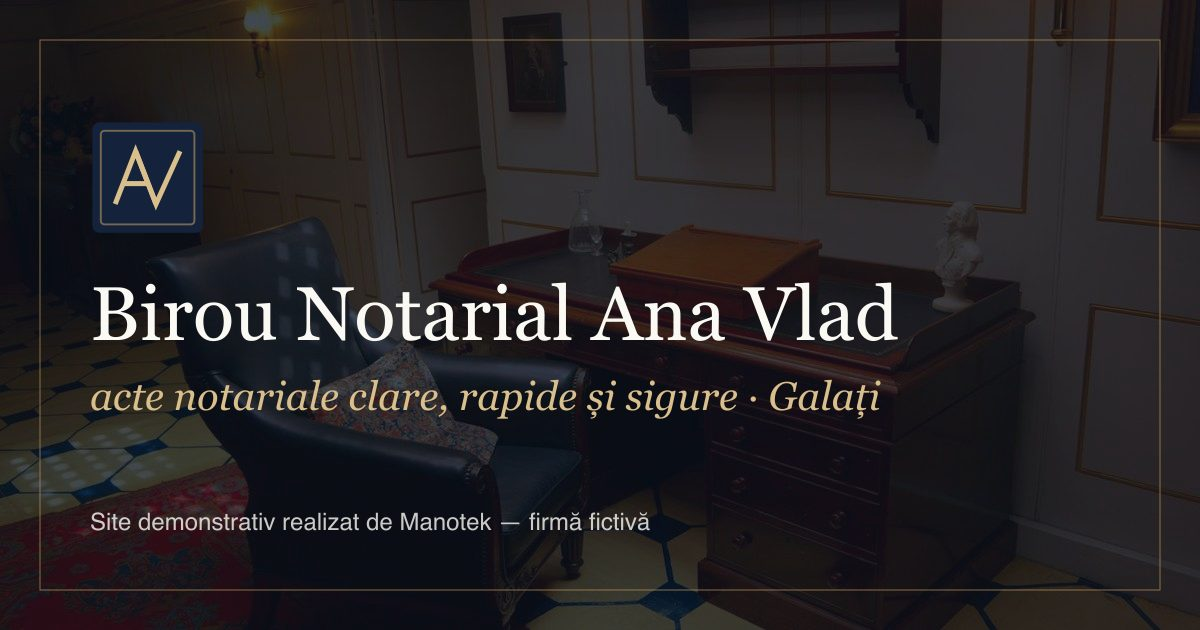
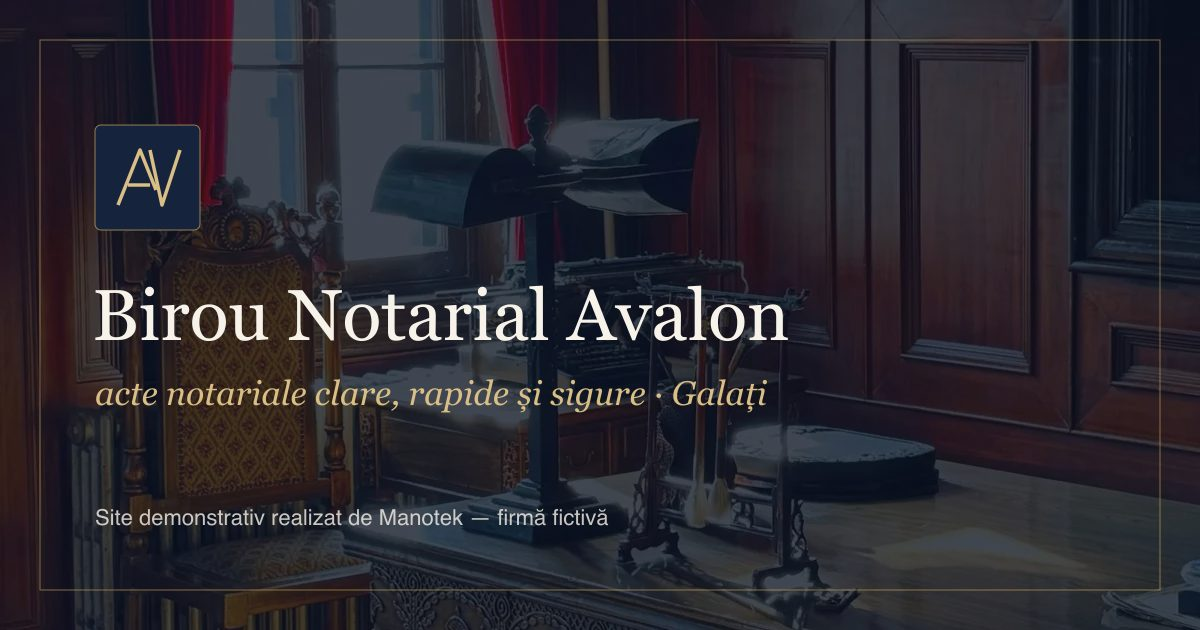
Nume de birou fictiv (Avalon) în loc de nume de persoană; imagine OG actualizată

diff --git a/content/site.ts b/content/site.ts
@@ -6,9 +6,9 @@
 export const EXEMPLU = "[exemplu]";
 
 export const site = {
-  nume: "Birou Notarial Ana Vlad",
-  numeScurt: "Notariat Ana Vlad",
-  notar: "Ana Vlad",
+  nume: "Birou Notarial Avalon",
+  numeScurt: "Notariat Avalon",
+  notar: "Notar public [exemplu]",
   oras: "Galați",
   slogan: "acte notariale clare, rapide și sigure",
   descriere:
@@ -61,7 +61,7 @@ export const nav = [
 
 export const hero = {
   supratitlu: "Birou notarial · Galați",
-  titlu: "Birou Notarial Ana Vlad",
+  titlu: "Birou Notarial Avalon",
   subtitlu: "Acte notariale clare, rapide și sigure.",
   text: "Vă explicăm fiecare pas pe înțelesul tuturor și vă trimitem din timp lista de acte. Ajungeți la birou pregătiți, semnați fără drumuri în plus.",
   repere: ["Listă de acte înainte de programare", "Explicații clare, fără termeni inutili", "Programare la ora stabilită"],
@@ -349,7 +349,7 @@ export const pasi = [
 
 export const despre = {
   titlu: "Despre notar",
-  nume: "Notar public Ana Vlad",
+  nume: "Notarul biroului [exemplu]",
   paragrafe: [
     "[exemplu] Notar public cu experiență în acte imobiliare, succesiuni și dreptul familiei. Lucrez cu atenție la detalii și cu explicații pe înțelesul fiecărui client.",
     "[exemplu] Cred că un act notarial bun începe cu o discuție clară: ce doriți să faceți, ce riscuri există și ce documente sunt necesare. Abia apoi trecem la redactare.",

diff --git a/components/Header.tsx b/components/Header.tsx
@@ -20,7 +20,7 @@ export function Logo({ onDark = false }: { onDark?: boolean }) {
     <span className="flex items-center gap-3">
       <Monogram className="mark h-10 w-10 shrink-0" />
       <span className="flex flex-col leading-none">
-        <span className={`font-serif text-[1.35rem] font-semibold tracking-tight ${onDark ? "text-hartie" : "text-navy"}`}>Ana Vlad</span>
+        <span className={`font-serif text-[1.35rem] font-semibold tracking-tight ${onDark ? "text-hartie" : "text-navy"}`}>Avalon</span>
         <span className={`mt-1 text-[10px] font-semibold tracking-[0.24em] uppercase ${onDark ? "text-aur-deschis" : "text-aur-text"}`}>Birou notarial</span>
       </span>
     </span>

diff --git a/app/servicii/[slug]/page.tsx b/app/servicii/[slug]/page.tsx
@@ -18,7 +18,7 @@ export async function generateMetadata({ params }: Props): Promise<Metadata> {
   const { slug } = await params;
   const s = servicii.find((x) => x.slug === slug);
   if (!s) return {};
-  const description = `${s.scurt} Ce include și ce acte sunt necesare, pe scurt. Birou Notarial Ana Vlad, Galați (site demonstrativ).`;
+  const description = `${s.scurt} Ce include și ce acte sunt necesare, pe scurt. Birou Notarial Avalon, Galați (site demonstrativ).`;
   const url = `servicii/${s.slug}/`;
   return { title: s.titlu, description, alternates: { canonical: url }, openGraph: og(s.titlu, description, url) };
 }

diff --git a/app/page.tsx b/app/page.tsx
@@ -31,7 +31,7 @@ function Hero() {
         <div className="lg:col-span-7">
           <p className="eyebrow">{hero.supratitlu}</p>
           <h1 id="hero-titlu" className="mt-6 font-serif text-[2.9rem] leading-[1.02] font-semibold tracking-tight text-navy sm:text-6xl lg:text-[4.6rem]">
-            {hero.titlu.replace("Ana Vlad", "Ana\u00a0Vlad")}
+            {hero.titlu}
             <span className="mt-3 block text-[0.62em] leading-[1.12] font-medium text-aur-text italic">
               — acte notariale clare, rapide și sigure
             </span>

diff --git a/components/Monogram.tsx b/components/Monogram.tsx
@@ -1,4 +1,4 @@
-/** Monograma „AV”: A și V legate printr-un traseu comun, într-un chenar fin. Identitate proprie, fără însemne oficiale. */
+/** Monograma „AV” (Avalon): A și V legate printr-un traseu comun, într-un chenar fin. Identitate proprie, fără însemne oficiale. */
 export function Monogram({ className = "", title }: { className?: string; title?: string }) {
   return (
     <svg viewBox="0 0 48 48" className={className} role={title ? "img" : undefined} aria-hidden={title ? undefined : true} aria-label={title}>

diff --git a/app/confidentialitate/page.tsx b/app/confidentialitate/page.tsx
@@ -3,7 +3,7 @@ import { Legal } from "@/components/Legal";
 import { site } from "@/content/site";
 import { og } from "@/lib";
 
-const description = "Cum prelucrează Birou Notarial Ana Vlad datele personale trimise prin site (text exemplu pentru un site demonstrativ).";
+const description = "Cum prelucrează Birou Notarial Avalon datele personale trimise prin site (text exemplu pentru un site demonstrativ).";
 export const metadata: Metadata = {
   title: "Politica de confidențialitate",
   description,

diff --git a/app/cookies/page.tsx b/app/cookies/page.tsx
@@ -3,7 +3,7 @@ import Link from "next/link";
 import { Legal } from "@/components/Legal";
 import { og } from "@/lib";
 
-const description = "Ce cookie-uri folosește site-ul Birou Notarial Ana Vlad (text exemplu pentru un site demonstrativ).";
+const description = "Ce cookie-uri folosește site-ul Birou Notarial Avalon (text exemplu pentru un site demonstrativ).";
 export const metadata: Metadata = {
   title: "Politica de cookies",
   description,

diff --git a/README.md b/README.md
@@ -1,4 +1,4 @@
-# Birou Notarial Ana Vlad — site demonstrativ
+# Birou Notarial Avalon — site demonstrativ
 
 Site demonstrativ realizat de **Manotek** pentru portofoliu. **Firma, persoana, adresa și datele de contact sunt fictive.** Pe fiecare pagină apare banda „Site demonstrativ realizat de Manotek — firmă fictivă”.
 
